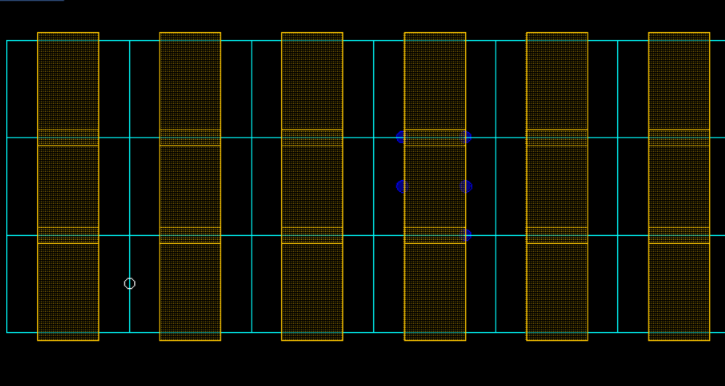
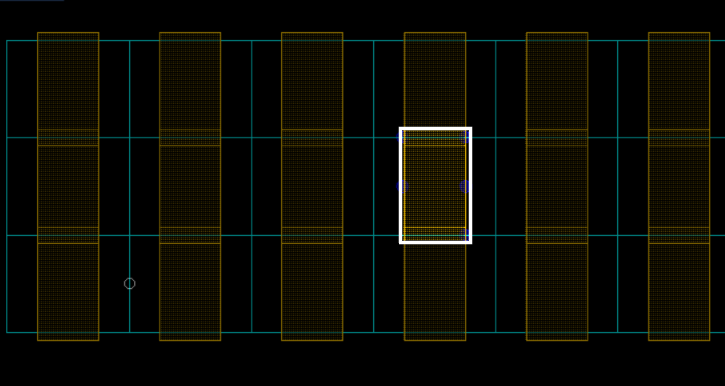
FinFET 페이지에 fin 형성·STI 단계 추가, ① 마스크에 대응 영역 강조

Changed region(s): [[0.2124, 0.0622, 0.8193, 0.9016], [0.0, 0.0622, 0.1821, 0.9016], [0.8497, 0.0622, 1.0, 0.9016]]

diff --git a/finfet.html b/finfet.html
@@ -24,14 +24,14 @@
 <main>
 <p class="nav"><a href="index.html">← 목차</a></p>
 <h1>FinFET 제작 과정과 마스크</h1>
-<p class="lead">FinFET은 마스크를 바꿔 가며 같은 웨이퍼에 모양을 여러 번 새겨서 만듭니다. 마스크가 쓰이는 대표적인 단계 여덟 곳을 3D 그림으로 따라갑니다.</p>
+<p class="lead">FinFET은 마스크를 바꿔 가며 같은 웨이퍼에 모양을 여러 번 새겨서 만듭니다. 마스크가 쓰이는 대표적인 단계를 3D 그림으로 따라갑니다.</p>
 
 <h2>마스크는 이렇게 쓰입니다</h2>
 <p>웨이퍼 위에 감광액(resist)을 바르고 마스크를 통해 빛을 쪼이면, 마스크 모양대로 감광액에 선이나 구멍이 만들어집니다. 이 과정을 <b>리소그래피(litho)</b>라고 합니다.</p>
 <p>그 다음 깎아 내는 과정을 <b>식각(etch, RIE)</b>이라고 합니다. 감광액이 덮고 있는 곳은 깎이지 않고, 드러난 곳만 깎입니다.</p>
 <p>아래 그림에서 <b>보라색 덩어리는 감광액</b>입니다.</p>
 
-<h2>1. fin 만들기</h2>
+<h2>1. fin과 STI 만들기</h2>
 <p>fin은 트랜지스터의 채널이 되는, 웨이퍼 위로 솟은 얇은 실리콘 벽입니다. fin을 만드는 데 마스크가 두 번 쓰입니다.</p>
 
 <div class="fig step">
@@ -39,7 +39,7 @@
 <div>
 <span class="tag">Mand 마스크</span>
 <h3>① fin의 틀이 되는 기둥 (mandrel)</h3>
-<figure class="lay" style="margin-left:0;margin-right:0"><img src="img/finfet-1-mandrel-layout.png" alt="주황색 점선 기둥이 세로로 여섯 개 늘어선 마스크 레이아웃"><figcaption>마스크 레이아웃: 주황색 점선 = Fin 레이어</figcaption></figure>
+<figure class="lay" style="margin-left:0;margin-right:0"><img src="img/finfet-1-mandrel-layout.png" alt="주황색 점선 기둥이 세로로 여섯 개 늘어선 마스크 레이아웃"><figcaption>마스크 레이아웃: 주황색 점선 = Fin 레이어. 흰색 네모가 왼쪽 3D 구조에 해당하는 부분입니다.</figcaption></figure>
 <p>실리콘 웨이퍼 위에 얇은 산화막과 질화막(초록색)을 깔고, 그 위에 비정질 실리콘을 올립니다.</p>
 <p>이 비정질 실리콘을 Mand 마스크 모양으로 깎은 것이 그림의 붉은 기둥입니다.</p>
 <p>기둥은 fin 자체가 아니라 fin을 만들기 위한 임시 틀입니다.</p>
@@ -78,14 +78,45 @@
 </div>
 </div>
 
+<div class="fig step">
+<img src="img/finfet-5-fin.png" alt="웨이퍼 위로 얇은 벽 모양 fin 두 개가 솟아 있고 위에 초록색 질화막이 얹힌 그림">
+<div>
+<span class="tag">마스크 없음</span>
+<h3>⑤ 벽 아래를 깎아 fin 만들기</h3>
+<p>벽을 가리개로 삼아 질화막, 산화막, 실리콘을 차례로 깎으면, 벽 아래 부분이 얇은 벽 모양으로 남습니다. 이것이 <b>fin</b>입니다.</p>
+<p>fin 위의 초록색은 질화막입니다.</p>
+</div>
+</div>
+
+<div class="fig step">
+<img src="img/finfet-6-sti-fill.png" alt="fin 사이가 하늘색 산화막으로 가득 채워져 평평해진 그림">
+<div>
+<span class="tag">마스크 없음</span>
+<h3>⑥ fin 사이를 산화막(STI)으로 채우기</h3>
+<p>fin 사이를 산화막(하늘색)으로 채우고 표면을 평평하게 깎아 냅니다. 이 산화막을 STI라고 하며, 이웃한 소자를 전기적으로 떼어 놓는 역할을 합니다.</p>
+<p>평평하게 깎으면 fin 위의 질화막(초록색 선)이 드러납니다.</p>
+<p>이 앞 단계에서는 NWell 마스크로 웰(well)을 만듭니다.</p>
+</div>
+</div>
+
+<div class="fig step">
+<img src="img/finfet-7-sti-recess.png" alt="하늘색 산화막 위로 빨간 fin 두 개의 윗부분이 솟아 있는 그림">
+<div>
+<span class="tag">마스크 없음</span>
+<h3>⑦ 산화막을 낮춰 fin 드러내기</h3>
+<p>fin 위의 질화막을 벗겨 내고, 산화막을 더 깎아 내립니다.</p>
+<p>그러면 fin의 윗부분만 산화막 위로 솟아오릅니다. 이 모양이 FinFET의 fin이고, 게이트는 이 fin을 감싸게 됩니다.</p>
+</div>
+</div>
+
 <h2>2. 게이트 만들기</h2>
-<p>fin 사이를 산화막(STI)으로 채우고 fin의 윗부분만 드러낸 뒤에 게이트를 만듭니다. 이 공정의 첫 게이트는 나중에 제거되는 <b>임시 게이트(sacrificial gate)</b>입니다.</p>
+<p>fin 위에 게이트를 만듭니다. 이 공정의 첫 게이트는 나중에 제거되는 <b>임시 게이트(sacrificial gate)</b>입니다.</p>
 
 <div class="fig step">
 <img src="img/finfet-5-gate.png" alt="보라색 감광액 두 줄이 맨 위에 있고 그 아래에 여러 겹의 막이 쌓인 그림">
 <div>
 <span class="tag">Gate 마스크</span>
-<h3>⑤ 게이트 선 만들기</h3>
+<h3>⑧ 게이트 선 만들기</h3>
 <figure class="lay" style="margin-left:0;margin-right:0"><img src="img/finfet-5-gate-layout.png" alt="세로 점선 기둥 위로 가로선이 여러 줄 지나가는 마스크 레이아웃"><figcaption>마스크 레이아웃: 주황색 점선 = Fin 레이어. 그 위를 가로로 지나는 선들이 게이트 선 자리입니다.</figcaption></figure>
 <p>임시 게이트 재료로는 비정질 실리콘을 씁니다.</p>
 <p>Gate 마스크로 감광액에 줄무늬를 만들고(그림의 보라색 두 줄), 이 모양대로 아래를 깎으면 게이트 선이 됩니다.</p>
@@ -97,7 +128,7 @@
 <img src="img/finfet-6-gatecut.png" alt="보라색 감광액에 홈이 파여 있고 그 아래로 게이트 선이 보이는 그림">
 <div>
 <span class="tag">GateCut 마스크</span>
-<h3>⑥ 게이트 선 자르기</h3>
+<h3>⑨ 게이트 선 자르기</h3>
 <figure class="lay" style="margin-left:0;margin-right:0"><img src="img/finfet-6-gatecut-layout.png" alt="가로 게이트 선 위에 분홍색 네모가 놓인 마스크 레이아웃"><figcaption>마스크 레이아웃: 분홍색 네모 = GateCut 레이어. 이 네모가 게이트 선을 끊을 자리입니다.</figcaption></figure>
 <p>Gate 마스크로 만든 게이트 선은 길게 이어져 있습니다.</p>
 <p>GateCut 마스크는 이 선을 원하는 곳에서 끊어서, 서로 다른 트랜지스터의 게이트로 나눕니다.</p>
@@ -112,7 +143,7 @@
 <img src="img/finfet-7-nwf.png" alt="금속 게이트가 채워진 구조 위에 보라색 감광액이 덮여 있는 그림">
 <div>
 <span class="tag">NWF 마스크</span>
-<h3>⑦ NMOS 쪽 금속 고르기</h3>
+<h3>⑩ NMOS 쪽 금속 고르기</h3>
 <figure class="lay" style="margin-left:0;margin-right:0"><img src="img/finfet-7-nwf-layout.png" alt="초록색 빗금 영역과 분홍색 네모가 함께 보이는 마스크 레이아웃"><figcaption>마스크 레이아웃: 초록색 빗금 = NWell 레이어</figcaption></figure>
 <p>NMOS와 PMOS는 게이트 금속이 서로 다릅니다.</p>
 <p>공정 목록에는 PMOS용 금속(TiN, TaN)을 입힌 뒤, NWF 마스크로 식각하고, NMOS용 금속(TiAl)을 입히는 순서로 적혀 있습니다.</p>
@@ -126,7 +157,7 @@
 <img src="img/finfet-8-contact.png" alt="맨 위 보라색 감광액에 길쭉한 홈이 열려 있는 그림">
 <div>
 <span class="tag">Contact·LI 마스크</span>
-<h3>⑧ 위쪽 배선과 잇는 구멍과 홈</h3>
+<h3>⑪ 위쪽 배선과 잇는 구멍과 홈</h3>
 <figure class="lay" style="margin-left:0;margin-right:0"><img src="img/finfet-8-contact-layout.png" alt="회색 가로 막대와 파란 점이 보이는 마스크 레이아웃"><figcaption>마스크 레이아웃: 회색 막대 = LI 레이어, 파란 점 = Contact 레이어</figcaption></figure>
 <p>트랜지스터를 다 만들고 나면, 위쪽 배선과 잇기 위해 절연막에 구멍(Contact)과 길쭉한 홈(LI)을 팝니다.</p>
 <p>Contact 마스크가 구멍의 위치를, LI 마스크가 홈의 위치를 정합니다. 그림에서는 맨 위 감광액에 길쭉한 홈이 열려 있습니다.</p>
@@ -153,11 +184,11 @@
 <tr><td>Mand</td><td>fin의 틀이 되는 기둥 모양</td><td>①</td></tr>
 <tr><td>FinCut</td><td>필요 없는 fin 잘라 내기</td><td>③</td></tr>
 <tr><td>NWell</td><td>PMOS가 들어갈 n형 웰 영역</td><td>없음</td></tr>
-<tr><td>Gate</td><td>게이트 선 모양</td><td>⑤</td></tr>
-<tr><td>GateCut</td><td>게이트 선 끊기</td><td>⑥</td></tr>
-<tr><td>NWF</td><td>NMOS 쪽 게이트 금속 영역</td><td>⑦</td></tr>
-<tr><td>Contact</td><td>위 배선과 잇는 구멍</td><td>⑧</td></tr>
-<tr><td>LI</td><td>짧은 국소 배선</td><td>⑧</td></tr>
+<tr><td>Gate</td><td>게이트 선 모양</td><td>⑧</td></tr>
+<tr><td>GateCut</td><td>게이트 선 끊기</td><td>⑨</td></tr>
+<tr><td>NWF</td><td>NMOS 쪽 게이트 금속 영역</td><td>⑩</td></tr>
+<tr><td>Contact</td><td>위 배선과 잇는 구멍</td><td>⑪</td></tr>
+<tr><td>LI</td><td>짧은 국소 배선</td><td>⑪</td></tr>
 </table>
 <p class="src">그림은 Coventor 공정 시뮬레이터로 만든 FinFET 모델의 단계별 3D 화면입니다.</p>
 </main>
